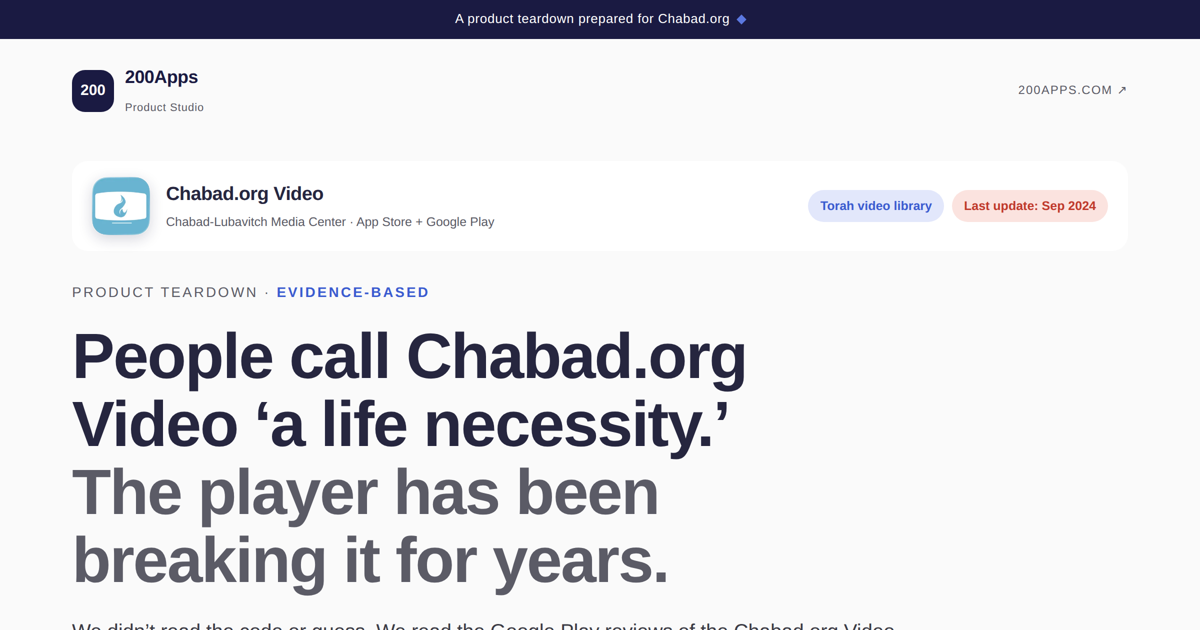
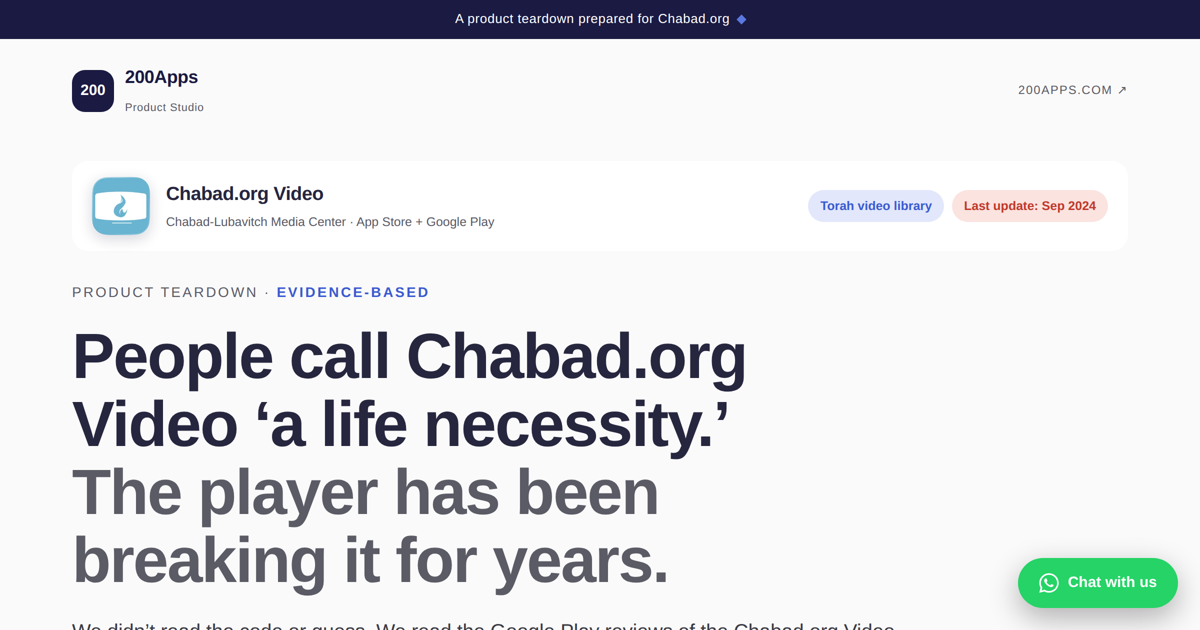
Deploy chabad-org-video static page

Changed region(s): [[0.8325, 0.8746, 0.9867, 0.9952]]

diff --git a/chabad-org-video/index.html b/chabad-org-video/index.html
@@ -3,8 +3,8 @@
 <head>
 <meta charset="UTF-8">
 <meta name="viewport" content="width=device-width, initial-scale=1.0">
-<title>Chabad.org Video · Product Teardown — 200Apps</title>
-<meta property="og:title" content="Chabad.org Video · Product Teardown — 200Apps">
+<title>Chabad.org Video · Product Teardown - 200Apps</title>
+<meta property="og:title" content="Chabad.org Video · Product Teardown - 200Apps">
 <meta property="og:description" content="Chabad.org Video's library is beloved, but the player has been breaking for years. An evidence-based product teardown by 200Apps.">
 <meta property="og:image" content="https://insights.200apps.com/chabad-org-video/og-image.png">
 <meta property="og:url" content="https://insights.200apps.com/chabad-org-video/">
@@ -122,6 +122,10 @@ h2{font-size:clamp(27px,4vw,44px);font-weight:800;letter-spacing:-1px;line-heigh
 .pill.primary .arr{color:#dfe6ff;}
 .mid-cta{display:flex;align-items:center;justify-content:center;gap:20px;flex-wrap:wrap;background:var(--blue-soft);border:1px solid var(--tint);border-radius:20px;padding:24px 30px;text-align:center;}
 .mid-cta .t{font-size:19px;font-weight:700;color:var(--navy);}
+.sticky-cta{position:fixed;bottom:22px;right:22px;z-index:200;display:inline-flex;align-items:center;gap:9px;background:#25D366;color:#fff;border-radius:40px;padding:13px 21px;font-weight:700;font-size:15px;text-decoration:none;box-shadow:0 10px 30px rgba(0,0,0,.3);transition:transform .2s;}
+.sticky-cta:hover{transform:translateY(-2px);}
+.sticky-cta svg{width:20px;height:20px;flex:none;}
+@media print{.sticky-cta{display:none;}}
 footer{margin-top:80px;background:var(--bone-2);padding:40px 0 28px;}
 .foot-top{display:flex;align-items:center;justify-content:space-between;flex-wrap:wrap;gap:18px;padding-bottom:28px;border-bottom:1px solid var(--line);}
 .foot-links{font-size:12.5px;letter-spacing:1px;text-transform:uppercase;color:var(--muted);}
@@ -150,6 +154,7 @@ footer{margin-top:80px;background:var(--bone-2);padding:40px 0 28px;}
 </head>
 <body>
 <div class="ribbon mono">A product teardown prepared for Chabad.org<span class="mk"></span></div>
+<a class="sticky-cta" href="https://wa.me/972553192012?text=Hi, I saw the 200Apps analysis of our app and would love to talk." target="_blank" rel="noopener"><svg viewBox="0 0 32 32" fill="currentColor" aria-hidden="true"><path d="M16 .4C7.4.4.5 7.3.5 15.9c0 2.8.7 5.4 2 7.7L.4 31.6l8.2-2.1c2.2 1.2 4.8 1.9 7.4 1.9 8.6 0 15.5-6.9 15.5-15.5S24.6.4 16 .4zm0 28.3c-2.4 0-4.6-.6-6.5-1.8l-.5-.3-4.9 1.3 1.3-4.8-.3-.5C3.6 20.8 3 18.4 3 15.9 3 8.7 8.8 2.9 16 2.9S29 8.7 29 15.9 23.2 28.7 16 28.7zm7.1-9.7c-.4-.2-2.3-1.1-2.6-1.3-.4-.1-.6-.2-.9.2-.3.4-1 1.3-1.2 1.5-.2.2-.4.3-.8.1-.4-.2-1.6-.6-3.1-1.9-1.1-1-1.9-2.3-2.2-2.7-.2-.4 0-.6.2-.8.2-.2.4-.4.5-.7.2-.2.2-.4.4-.6.1-.3 0-.5 0-.7-.1-.2-.9-2.1-1.2-2.9-.3-.8-.6-.7-.9-.7h-.7c-.2 0-.6.1-1 .5-.3.4-1.3 1.3-1.3 3.1 0 1.8 1.3 3.6 1.5 3.8.2.2 2.6 4 6.3 5.6.9.4 1.6.6 2.1.8.9.3 1.7.2 2.3.1.7-.1 2.3-.9 2.6-1.8.3-.9.3-1.7.2-1.8z"/></svg>Chat with us</a>
 <div class="wrap">
   <nav>
     <a class="logo" href="https://www.200apps.com" target="_blank" rel="noopener"><span class="badge"><span>200</span></span><span class="wm"><b>200Apps</b><small>Product Studio</small></span></a>
@@ -163,7 +168,7 @@ footer{margin-top:80px;background:var(--bone-2);padding:40px 0 28px;}
   <header class="hero">
     <div class="eyebrow">Product teardown · <b>Evidence-based</b></div>
     <h1>People call Chabad.org Video &lsquo;a life necessity.&rsquo;<br><span class="dim">The player has been breaking it for years.</span></h1>
-    <p class="lead">We didn&rsquo;t read the code or guess. We read the Google Play reviews of the Chabad.org Video app and mapped what users themselves write. The pattern is striking: the library is beloved &mdash; <b>&lsquo;the biggest Jewish video collection there is&rsquo;</b> &mdash; but the player keeps getting in the way. <b>Playback stops the moment the screen locks, videos freeze and won&rsquo;t restart, and a review from March 2026 shows it&rsquo;s still broken.</b> The app was last updated September 2024.</p>
+    <p class="lead">We didn&rsquo;t read the code or guess. We read the Google Play reviews of the Chabad.org Video app and mapped what users themselves write. The pattern is striking: the library is beloved - <b>&lsquo;the biggest Jewish video collection there is&rsquo;</b> - but the player keeps getting in the way. <b>Playback stops the moment the screen locks, videos freeze and won&rsquo;t restart, and a review from March 2026 shows it&rsquo;s still broken.</b> The app was last updated September 2024.</p>
     <div class="metastrip"><div><div class="k">Last app update</div><div class="v warn">Sep 2024</div></div><div><div class="k">Player issues since</div><div class="v warn">2013</div></div><div><div class="k">The content</div><div class="v good">Beloved</div></div></div>
   </header>
 </div>
@@ -171,7 +176,7 @@ footer{margin-top:80px;background:var(--bone-2);padding:40px 0 28px;}
 <div class="wrap"><section class="rv">
   <div class="sec-label"><span class="n">00</span> The problem</div>
   <h2>A beloved library, trapped behind a broken player.</h2>
-  <p class="sec-sub">The reviews are overwhelmingly warm about the content &mdash; Torah, shiurim, kids&rsquo; videos, &lsquo;constant Torah anytime you want.&rsquo; But the same technical complaints repeat across a decade: playback stops the moment the screen locks, videos freeze mid-shiur and won&rsquo;t resume, and the app force-closes. Chabad&rsquo;s own team replied to reviews years ago promising fixes &mdash; yet a March 2026 review shows users still hitting errors. The last update shipped September 2024.</p>
+  <p class="sec-sub">The reviews are overwhelmingly warm about the content - Torah, shiurim, kids&rsquo; videos, &lsquo;constant Torah anytime you want.&rsquo; But the same technical complaints repeat across a decade: playback stops the moment the screen locks, videos freeze mid-shiur and won&rsquo;t resume, and the app force-closes. Chabad&rsquo;s own team replied to reviews years ago promising fixes - yet a March 2026 review shows users still hitting errors. The last update shipped September 2024.</p>
   <div class="pgap">
     <div class="col good"><div class="os">The content</div><div class="ver">Beloved</div><div class="since">Praised for over a decade</div><div><span class="badge">A &lsquo;life necessity&rsquo; for learners</span></div></div>
     <div class="col warnbad"><div class="os">The player</div><div class="ver">Breaks</div><div class="since">Same failures since 2013</div><div><span class="badge">Not updated since Sep 2024</span></div></div>
@@ -181,33 +186,33 @@ footer{margin-top:80px;background:var(--bone-2);padding:40px 0 28px;}
 <div class="wrap"><section class="rv">
   <div class="sec-label"><span class="n">01</span> What users say</div>
   <h2>The evidence, word for word.</h2>
-  <p class="sec-sub">We grouped the Google Play reviews by theme. These aren&rsquo;t our opinions &mdash; they&rsquo;re real users who love the content and keep hitting the same wall:</p>
-  <div class="ev-grid"><div class="theme"><h4>Playback dies when the screen locks</h4><div class="quote"><div class="txt">"Would be better if it can play even when the device is locked. You usually don't leave your cellphone unlocked when listening to something."</div><div class="meta"><span>Google Play</span><span>Dec 2018 · 17 helpful</span></div></div><div class="quote"><div class="txt">"Videos cannot play in the background or with the screen switched off. Any touch / gesture stops the playback... It's forcing me to restart every 30 mins video over 5 times. Please bring the old version back."</div><div class="meta"><span>Google Play</span><span>Jan 2015</span></div></div></div><div class="theme"><h4>Videos freeze, crash, and won&rsquo;t restart</h4><div class="quote"><div class="txt">"App has great potential. Yet videos often stop streaming and aren't able to restart. Are CODEC issues the cause of unreliability?"</div><div class="meta"><span>Google Play</span><span>Sep 2017 · 10 helpful</span></div></div><div class="quote"><div class="txt">"Everytime I want to play a video, the program is suddenly Force Close."</div><div class="meta"><span>Google Play</span><span>Jul 2016</span></div></div></div><div class="theme"><h4>Still broken in 2026</h4><div class="quote"><div class="txt">"it keeps saying invalid response even though I clicked allow notifications"</div><div class="meta"><span>Google Play</span><span>Mar 2026</span></div></div><div class="quote"><div class="txt">"a life necessity for me!!"</div><div class="meta"><span>Google Play</span><span>May 2017</span></div></div></div><div class="theme" style="background:var(--navy);color:#fff;display:flex;flex-direction:column;justify-content:center;"><h4 style="color:#fff;">Why these?</h4><p style="font-size:15px;opacity:.95;">We filtered out one-offs. What remains is a decade-long, consistent pattern: people love the Torah content enough to keep coming back &mdash; but the playback layer (background audio, resume, stability) fails them. This isn&rsquo;t about the library. It&rsquo;s the player the library sits on. And a March 2026 review shows it&rsquo;s still unresolved.</p></div></div>
+  <p class="sec-sub">We grouped the Google Play reviews by theme. These aren&rsquo;t our opinions - they&rsquo;re real users who love the content and keep hitting the same wall:</p>
+  <div class="ev-grid"><div class="theme"><h4>Playback dies when the screen locks</h4><div class="quote"><div class="txt">"Would be better if it can play even when the device is locked. You usually don't leave your cellphone unlocked when listening to something."</div><div class="meta"><span>Google Play</span><span>Dec 2018 · 17 helpful</span></div></div><div class="quote"><div class="txt">"Videos cannot play in the background or with the screen switched off. Any touch / gesture stops the playback... It's forcing me to restart every 30 mins video over 5 times. Please bring the old version back."</div><div class="meta"><span>Google Play</span><span>Jan 2015</span></div></div></div><div class="theme"><h4>Videos freeze, crash, and won&rsquo;t restart</h4><div class="quote"><div class="txt">"App has great potential. Yet videos often stop streaming and aren't able to restart. Are CODEC issues the cause of unreliability?"</div><div class="meta"><span>Google Play</span><span>Sep 2017 · 10 helpful</span></div></div><div class="quote"><div class="txt">"Everytime I want to play a video, the program is suddenly Force Close."</div><div class="meta"><span>Google Play</span><span>Jul 2016</span></div></div></div><div class="theme"><h4>Still broken in 2026</h4><div class="quote"><div class="txt">"it keeps saying invalid response even though I clicked allow notifications"</div><div class="meta"><span>Google Play</span><span>Mar 2026</span></div></div><div class="quote"><div class="txt">"a life necessity for me!!"</div><div class="meta"><span>Google Play</span><span>May 2017</span></div></div></div><div class="theme" style="background:var(--navy);color:#fff;display:flex;flex-direction:column;justify-content:center;"><h4 style="color:#fff;">Why these?</h4><p style="font-size:15px;opacity:.95;">We filtered out one-offs. What remains is a decade-long, consistent pattern: people love the Torah content enough to keep coming back - but the playback layer (background audio, resume, stability) fails them. This isn&rsquo;t about the library. It&rsquo;s the player the library sits on. And a March 2026 review shows it&rsquo;s still unresolved.</p></div></div>
 </section></div>
 <div class="wrap"><div class="connector"><div class="ln"></div><div class="node"></div><div class="ln"></div></div></div>
 <div class="wrap"><section class="rv">
   <div class="sec-label"><span class="n">02</span> Stability & experience</div>
   <h2>Three upgrades that sit directly on the reviews.</h2>
-  <p class="sec-sub">Each one is anchored in a complaint that repeats in the reviews &mdash; not a hunch. Where to start:</p>
-  <div class="opp-grid"><div class="opp"><h4>A player built for how people learn</h4><p>Background and locked-screen playback, resume exactly where you stopped, and no stray touch killing the stream. This single fix answers the most-repeated request in the reviews &mdash; going back over a decade.</p></div><div class="opp"><h4>Streaming that just works</h4><p>Reliable playback across devices with no freezing mid-shiur, offline downloads for the commute (users have asked since 2013), and Chromecast / Apple TV that behaves.</p></div><div class="opp"><h4>A living app again</h4><p>Notifications that actually fire, a clean library that surfaces series and scholars, and active maintenance &mdash; so the next review isn&rsquo;t the same 2015 complaint.</p></div></div>
+  <p class="sec-sub">Each one is anchored in a complaint that repeats in the reviews - not a hunch. Where to start:</p>
+  <div class="opp-grid"><div class="opp"><h4>A player built for how people learn</h4><p>Background and locked-screen playback, resume exactly where you stopped, and no stray touch killing the stream. This single fix answers the most-repeated request in the reviews - going back over a decade.</p></div><div class="opp"><h4>Streaming that just works</h4><p>Reliable playback across devices with no freezing mid-shiur, offline downloads for the commute (users have asked since 2013), and Chromecast / Apple TV that behaves.</p></div><div class="opp"><h4>A living app again</h4><p>Notifications that actually fire, a clean library that surfaces series and scholars, and active maintenance - so the next review isn&rsquo;t the same 2015 complaint.</p></div></div>
 </section></div>
 <div class="wrap"><div class="connector"><div class="ln"></div><div class="node"></div><div class="ln"></div></div></div>
 <div class="wrap"><section class="rv">
   <div class="panel">
     <span class="tag tl">AI-NATIVE · VISION</span>
     <h3 style="font-size:30px;">Where can Chabad.org Video go in the AI era?</h3>
-    <p>Stabilizing the player is the base. But a vast archive of decades of shiurim is exactly the kind of library AI transforms &mdash; not replacing the learning, <b>making it findable</b>.</p>
+    <p>Stabilizing the player is the base. But a vast archive of decades of shiurim is exactly the kind of library AI transforms - not replacing the learning, <b>making it findable</b>.</p>
     <div class="ai-grid"><div class="ai"><h4>Ask the library</h4><p>Natural-language search across thousands of videos: &lsquo;where does the Rebbe speak about...&rsquo; finds the exact talk and moment.</p></div><div class="ai"><h4>Your next shiur, chosen for you</h4><p>Personalized recommendations by topic, scholar, and where you left off.</p></div><div class="ai"><h4>Learn hands-free</h4><p>A reliable audio mode with resume, chapters and smart summaries for the commute.</p></div></div>
     <span class="tag br">200APPS BUILDS AI-NATIVE &#8594;</span>
   </div>
-  <div style="padding-top:28px;"><div class="mid-cta"><span class="t">See the direction?</span><a class="pill primary" href="mailto:hi@200apps.com?subject=Chabad.org Video — product upgrade"><svg viewBox="0 0 24 24" width="19" height="19" fill="none" stroke="currentColor" stroke-width="2" aria-hidden="true"><rect x="2" y="4" width="20" height="16" rx="2"/><path d="m2 6 10 7L22 6"/></svg>Let&rsquo;s talk about the app <span class="arr">&#8594;</span></a></div></div>
+  <div style="padding-top:28px;"><div class="mid-cta"><span class="t">See the direction?</span><a class="pill primary" href="mailto:hi@200apps.com?subject=Chabad.org Video - product upgrade"><svg viewBox="0 0 24 24" width="19" height="19" fill="none" stroke="currentColor" stroke-width="2" aria-hidden="true"><rect x="2" y="4" width="20" height="16" rx="2"/><path d="m2 6 10 7L22 6"/></svg>Let&rsquo;s talk about the app <span class="arr">&#8594;</span></a></div></div>
 </section></div>
 <div class="wrap"><div class="connector"><div class="ln"></div><div class="node"></div><div class="ln"></div></div></div>
 <div class="wrap"><section class="rv">
   <div class="sec-label"><span class="n">03</span> What we've built</div>
-  <h2>Jewish streaming and content apps &mdash; this is exactly what we build.</h2>
-  <p class="sec-sub">We&rsquo;re not learning streaming and Torah content from scratch. We&rsquo;ve built Jewish content apps that live in the stores for years &mdash; reliable playback, login and sync across devices, and careful maintenance.</p>
-  <div class="cs-grid"><div class="cs"><img src="assets/icons/torah-live.png" alt="Torah Live"><div><div class="nm">Torah Live</div><div class="ds">A subscription video-streaming app &mdash; guest / free / paid tiers, login and viewing sync across devices, including Apple TV. Built to stream reliably and scale.</div></div></div><div class="cs"><img src="assets/icons/time4mishna.png" alt="Time4Mishna"><div><div class="nm">Time4Mishna</div><div class="ds">A daily Mishna program with audio, weekly reviews and progress tracking, for an English-speaking audience.</div></div></div><div class="cs"><img src="assets/icons/koren.png" alt="Koren"><div><div class="nm">Koren</div><div class="ds">The Koren Tefilla app &mdash; a deep digital content library with meticulous Hebrew typography and a clean reading experience.</div></div></div></div>
+  <h2>Jewish streaming and content apps - this is exactly what we build.</h2>
+  <p class="sec-sub">We&rsquo;re not learning streaming and Torah content from scratch. We&rsquo;ve built Jewish content apps that live in the stores for years - reliable playback, login and sync across devices, and careful maintenance.</p>
+  <div class="cs-grid"><div class="cs"><img src="assets/icons/torah-live.png" alt="Torah Live"><div><div class="nm">Torah Live</div><div class="ds">A subscription video-streaming app - guest / free / paid tiers, login and viewing sync across devices, including Apple TV. Built to stream reliably and scale.</div></div></div><div class="cs"><img src="assets/icons/rambam-yomi.png" alt="Rambam Yomi"><div><div class="nm">Rambam Yomi</div><div class="ds">A daily-learning app with text, audio lessons, short video and progress tracking. Content that arrives on schedule and keeps learners coming back.</div></div></div><div class="cs"><img src="assets/icons/koren.png" alt="Koren"><div><div class="nm">Koren</div><div class="ds">The Koren Tefilla app - a deep digital content library with meticulous Hebrew typography and a clean reading experience.</div></div></div></div>
   <div class="clients"><div class="ttl">And more brands already working with us</div><div class="cwall"><img src="assets/clients/c12.png" alt=""><img src="assets/clients/c14.png" alt=""><img src="assets/clients/c11.png" alt=""><img src="assets/clients/c08.png" alt=""><img src="assets/clients/c03.png" alt=""><img src="assets/clients/c10.png" alt=""><img src="assets/clients/c05.png" alt=""><img src="assets/clients/c09.png" alt=""><img src="assets/clients/c01.png" alt=""><img src="assets/clients/c06.png" alt=""><img src="assets/clients/c15.png" alt=""><img src="assets/clients/c04.png" alt=""><img src="assets/clients/c16.png" alt=""><img src="assets/clients/c17.png" alt=""><img src="assets/clients/c18.png" alt=""></div></div>
 </section></div>
 <div class="wrap"><div class="connector"><div class="ln"></div><div class="node"></div><div class="ln"></div></div></div>
@@ -215,9 +220,9 @@ footer{margin-top:80px;background:var(--bone-2);padding:40px 0 28px;}
   <div class="sec-label"><span class="n">04</span> Let's talk</div>
   <div class="panel cta-panel">
     <span class="tag tl">GET STARTED</span>
-    <h3 style="font-size:32px;max-width:24ch;">Not one bug &mdash; a chance to rebuild the experience.</h3>
-    <p>A short, no-obligation call &mdash; we&rsquo;ll walk the findings together and where to start. Not a point fix, a product upgrade.</p>
-    <div class="cta-row"><a class="pill primary" href="mailto:hi@200apps.com?subject=Chabad.org Video — product upgrade"><svg viewBox="0 0 24 24" width="19" height="19" fill="none" stroke="currentColor" stroke-width="2" aria-hidden="true"><rect x="2" y="4" width="20" height="16" rx="2"/><path d="m2 6 10 7L22 6"/></svg>Email us about Chabad.org Video <span class="arr">&#8594;</span></a><a class="pill ghost" href="https://wa.me/972544608119">Or WhatsApp</a></div>
+    <h3 style="font-size:32px;max-width:24ch;">Not one bug - a chance to rebuild the experience.</h3>
+    <p>A short, no-obligation call - we&rsquo;ll walk the findings together and where to start. Not a point fix, a product upgrade.</p>
+    <div class="cta-row"><a class="pill primary" href="mailto:hi@200apps.com?subject=Chabad.org Video - product upgrade"><svg viewBox="0 0 24 24" width="19" height="19" fill="none" stroke="currentColor" stroke-width="2" aria-hidden="true"><rect x="2" y="4" width="20" height="16" rx="2"/><path d="m2 6 10 7L22 6"/></svg>Email us about Chabad.org Video <span class="arr">&#8594;</span></a><a class="pill ghost" href="https://wa.me/972553192012?text=Hi, I saw the 200Apps analysis of our app and would love to talk." target="_blank" rel="noopener">Or WhatsApp</a></div>
   </div>
 </section></div>
 <footer>
